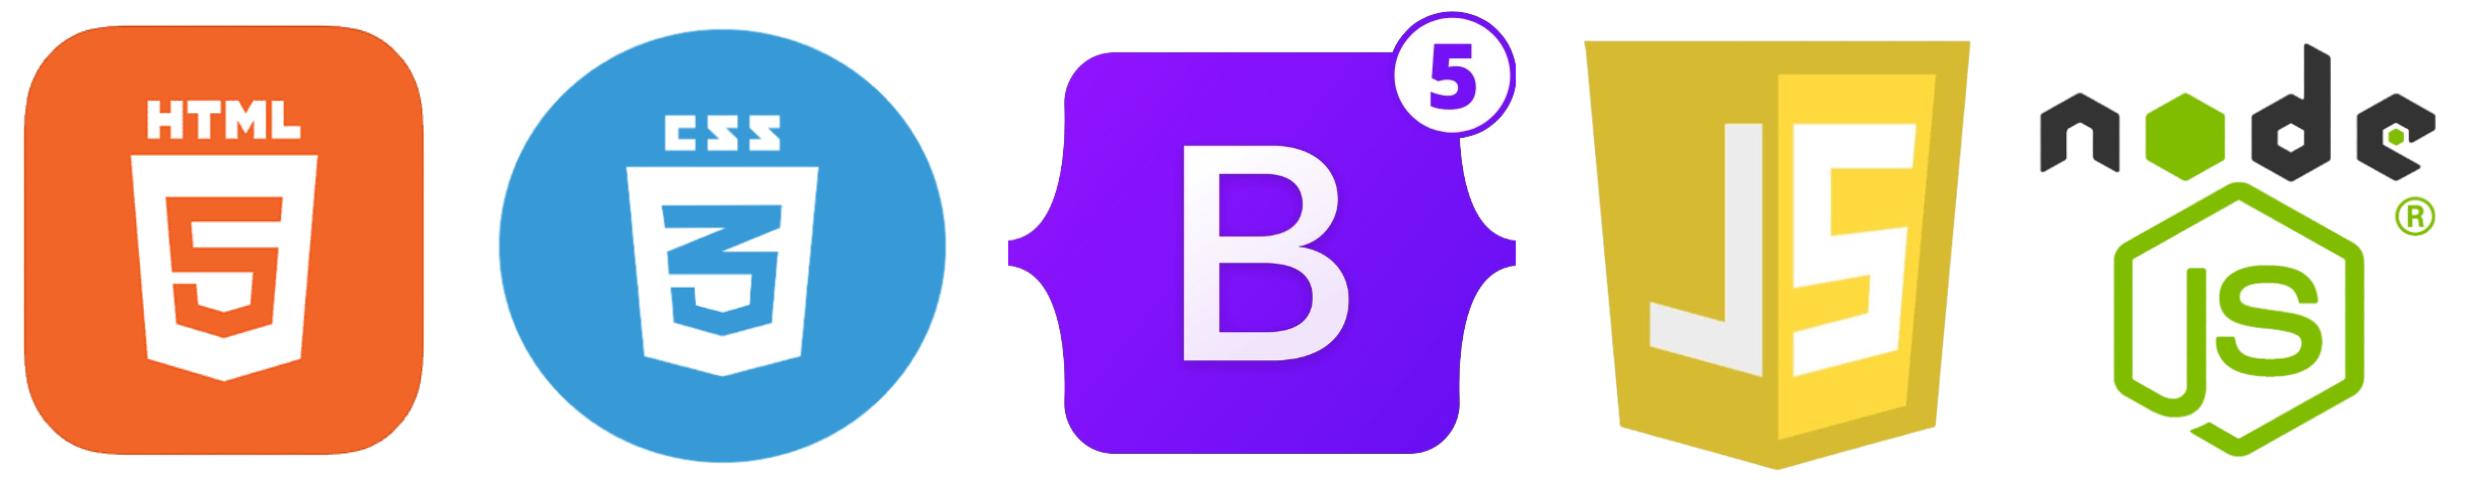
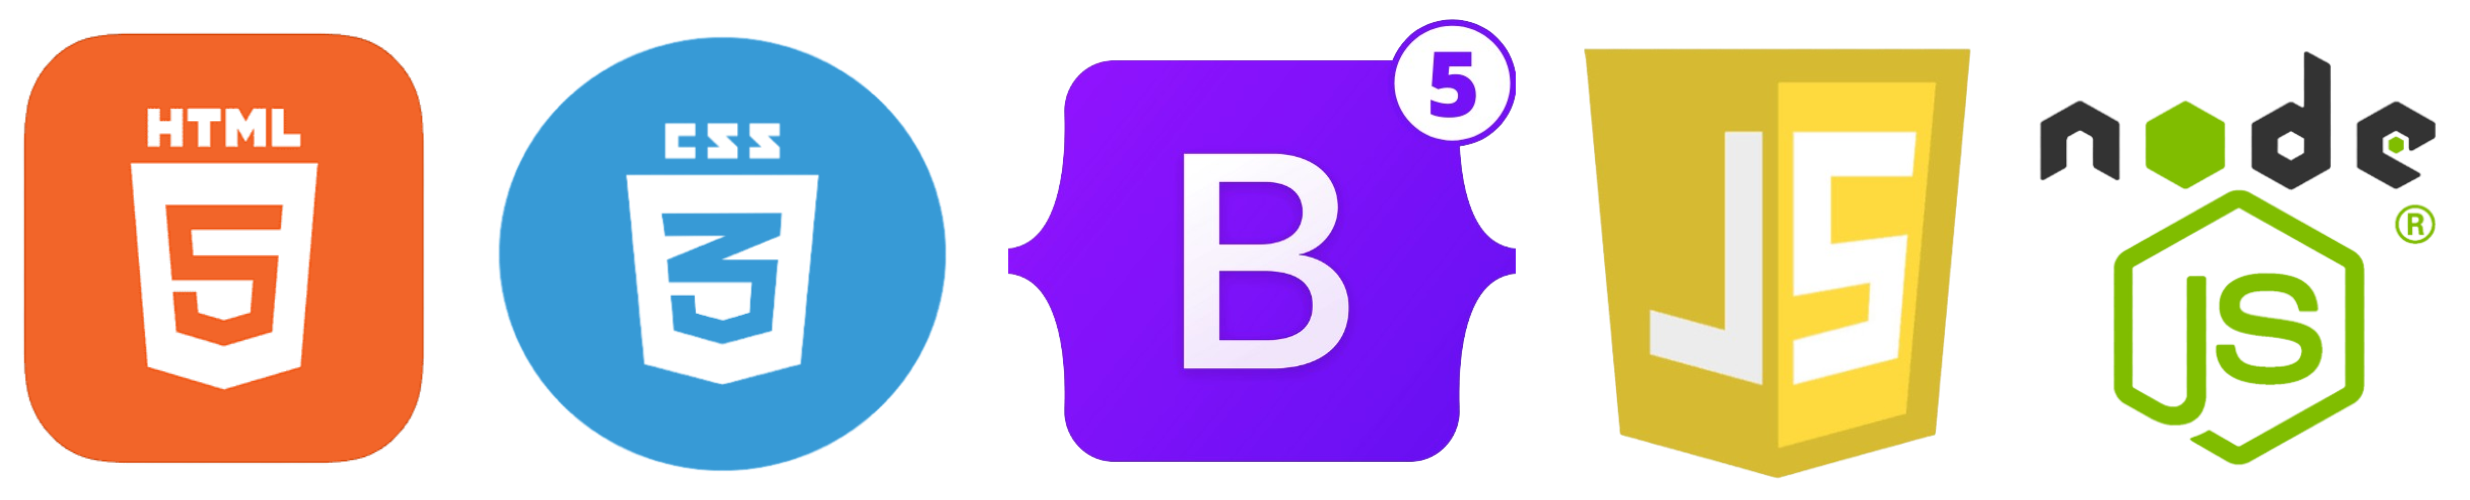
Actualización

diff --git a/README.md b/README.md
@@ -22,7 +22,7 @@ Como Full Stack, mi enfoque se centra en crear experiencias digitales excepciona
 
 ### Tecnologías que Utilizo? 💻
 
-<img src="https://github.com/CristianSombra/CristianSombra/blob/main/images/placa1.png" alt="Ejemplo de imagen" width="80" height="80">
+<img src="https://github.com/CristianSombra/CristianSombra/blob/main/images/placa3.png" alt="Ejemplo de imagen" width="80" height="80">
 
 
 
